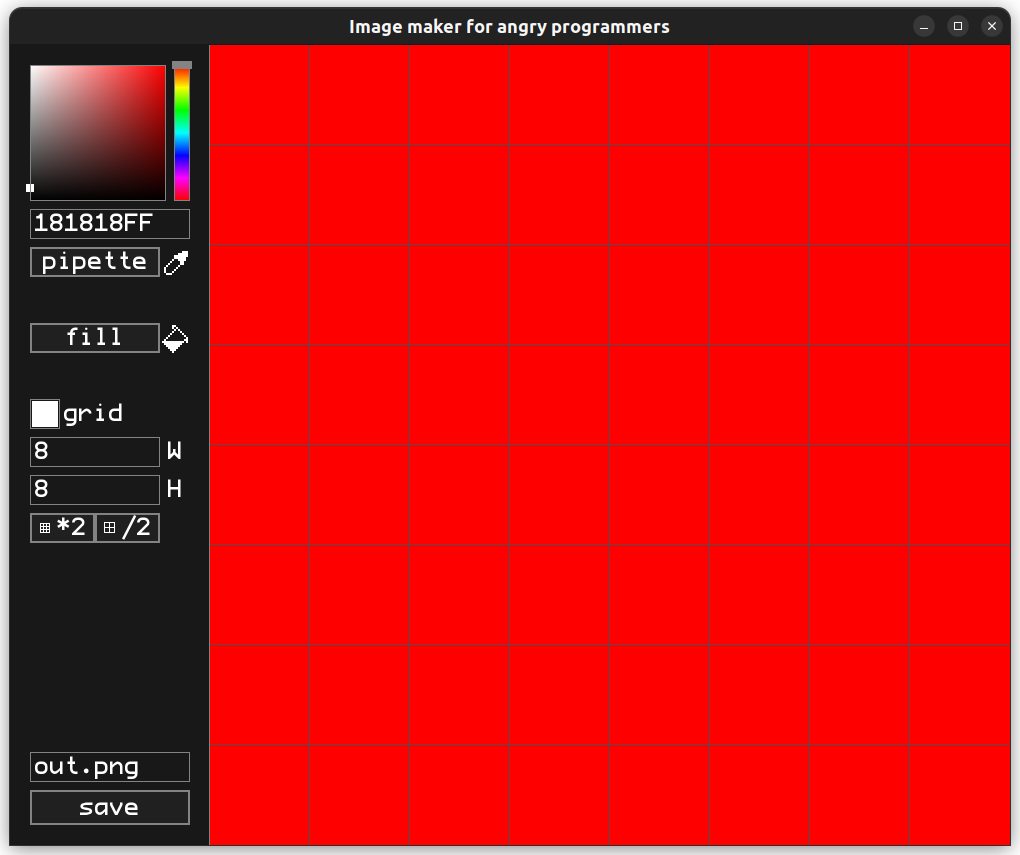
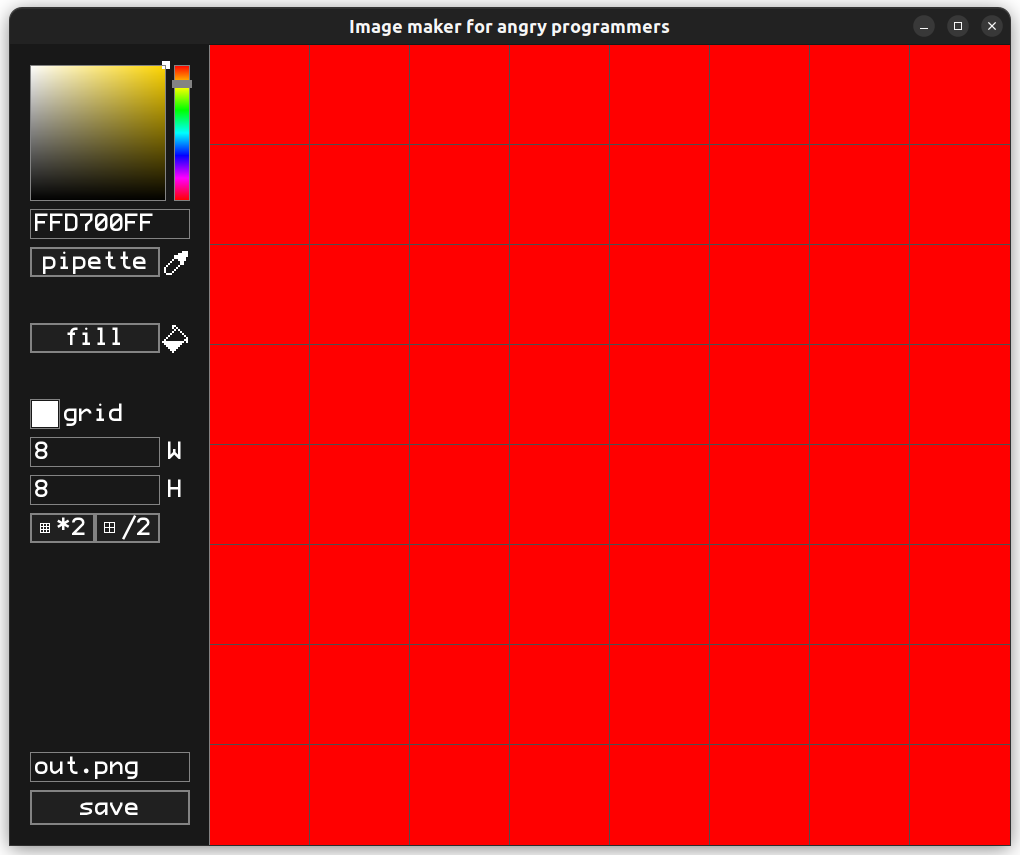
changed initial color from black to yellow, to make first color selection more convientient and less confusing. (low s&v meant that hue hat no impact)

Changed region(s): [[0.0304, 0.0608, 0.1824, 0.2129], [0.0304, 0.2433, 0.1216, 0.2737]]

diff --git a/src/main.c b/src/main.c
@@ -49,6 +49,7 @@
 
 #define FAV_COLOR ((Color){0x18, 0x18, 0x18, 0xFF}) // sorry, but AA is a bit impractical
 #define STD_COLOR ((Color){0xFF, 0x00, 0x00, 0xFF})
+#define DFT_COLOR ((Color){0xFF, 0xD7, 0x00, 0xFF})
 
 
 enum CURSOR_MODE{
@@ -269,7 +270,7 @@ int main(int argc, char **argv){
     // Track hsv + alpha instead of rgba,
     // because rgba can only store lossy hue values which leads to color-picker jitters when color approaches white or black.
     color_t active_color = {0};
-    setFromRGBA(&active_color, FAV_COLOR); // important to initialize from rgba, because HSV does not supply alpha information.
+    setFromRGBA(&active_color, DFT_COLOR); // important to initialize from rgba, because HSV does not supply alpha information.
 
     enum CURSOR_MODE cursor = CURSOR_DEFAULT;
 
